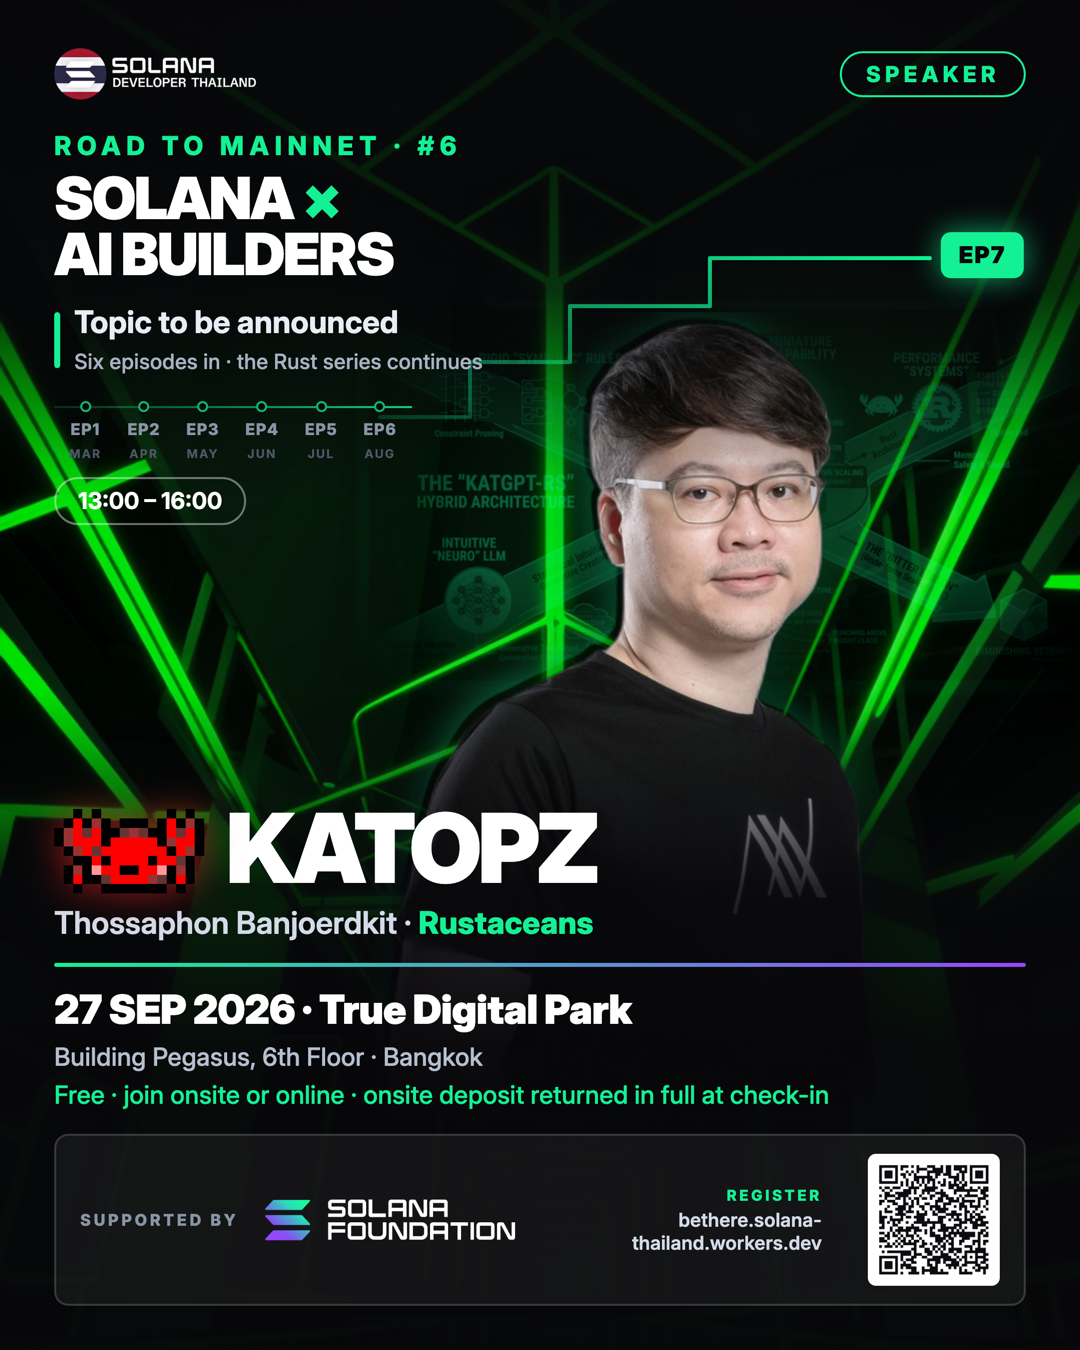
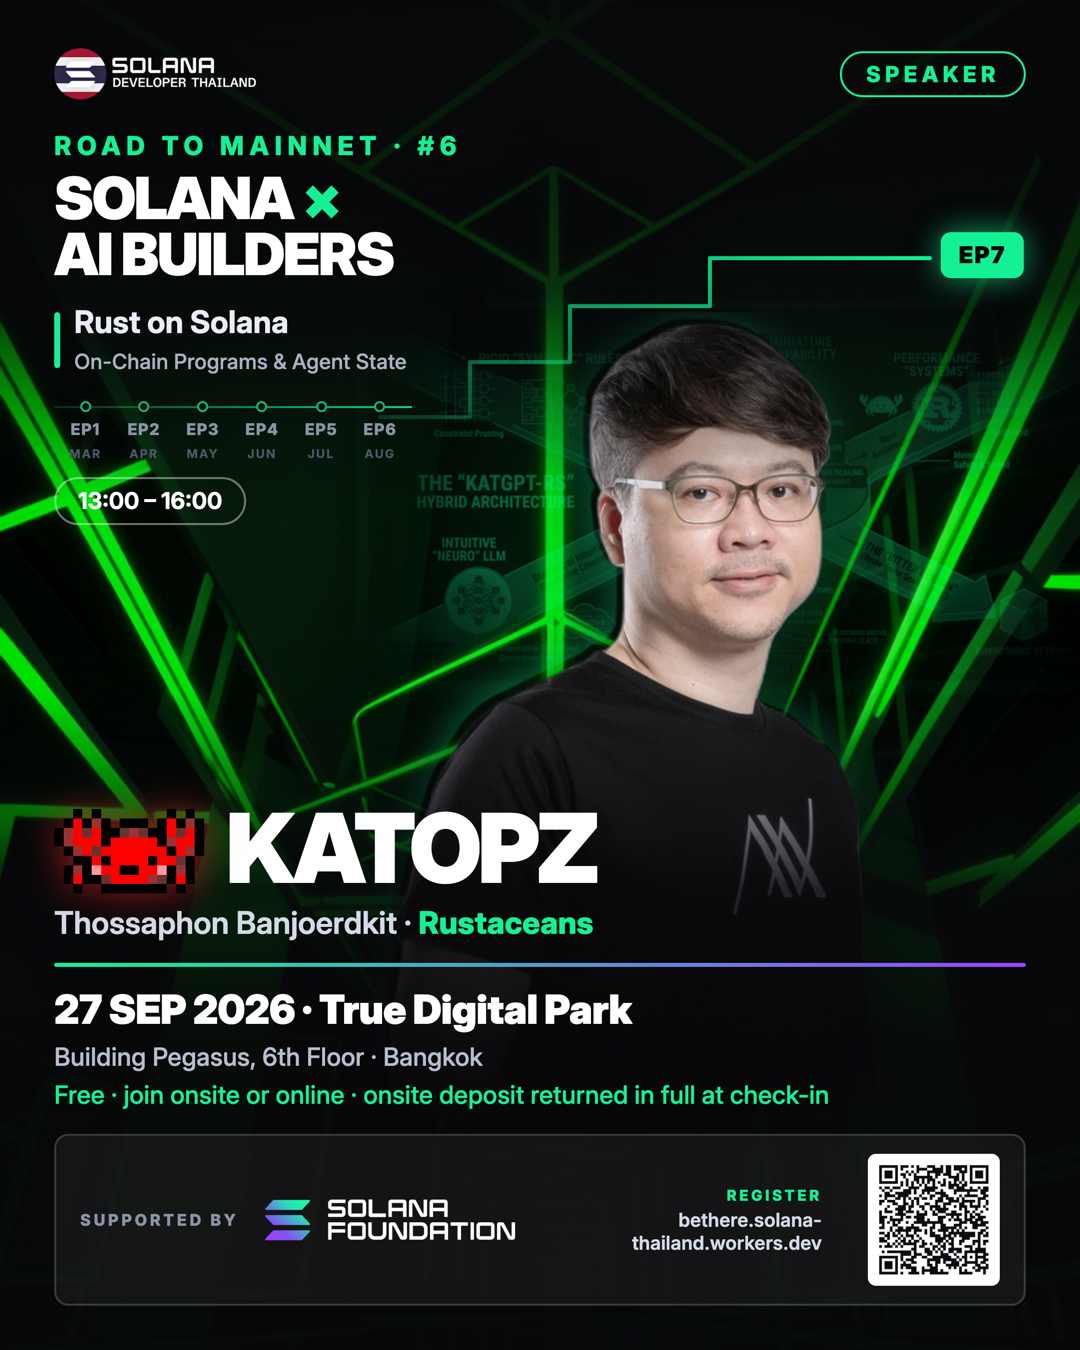
feat(events): RTM #6 — both talks confirmed, poster carries Katopz's real topic

Changed region(s): [[0.0611, 0.2178, 0.4583, 0.28]]

diff --git a/docs/content/events/road-to-mainnet-6-bangkok.md b/docs/content/events/road-to-mainnet-6-bangkok.md
@@ -20,7 +20,8 @@ perks = [
     "Deposit Refunded on Check-in",
 ]
 speakers = [
-    { name = "Katopz", role = "Topic to be announced", role_type = "primary", org = "Rustaceans", image = "katopz.jpg", social_links = { twitter = "https://x.com/katopz/" } },
+    { name = "Katopz", role = "Rust on Solana: On-Chain Programs & Agent State (EP7)", role_type = "primary", org = "Rustaceans", image = "katopz.jpg", social_links = { twitter = "https://x.com/katopz/" } },
+    { name = "Ozone", role = "Autonomous Video Agents: ComfyUI & Rust on Solana", role_type = "secondary", org = "Solana Thailand DevRel" },
 ]
 +++
 
@@ -39,9 +40,15 @@ That hold is the same mechanism used since #3, and across those events it moved
 attendance from **37% to 86%**. It is the difference between a room that is
 booked and a room that is full.
 
-**Katopz** returns, as he has for every round of this series. A second speaker
-and both topics are still being settled — this page updates the moment they
-are, and anyone already registered on BeThere hears about it first.
+Two sessions, both confirmed:
+
+- **Rust on Solana: On-Chain Programs & Agent State (EP7)** — Katopz
+  (Rustaceans), the seventh instalment of the Rust series that has run through
+  every Road to Mainnet event.
+- **Autonomous Video Agents: Giving Faces & Voices to On-Chain AI with ComfyUI
+  & Rust** — Ozone (Solana Thailand DevRel). Connecting on-chain state to
+  generative video in real time, with ComfyUI and Whisper running locally on
+  Apple Silicon — no API bills — and Rust enforcing the parameter bounds.
 
 ---
 
